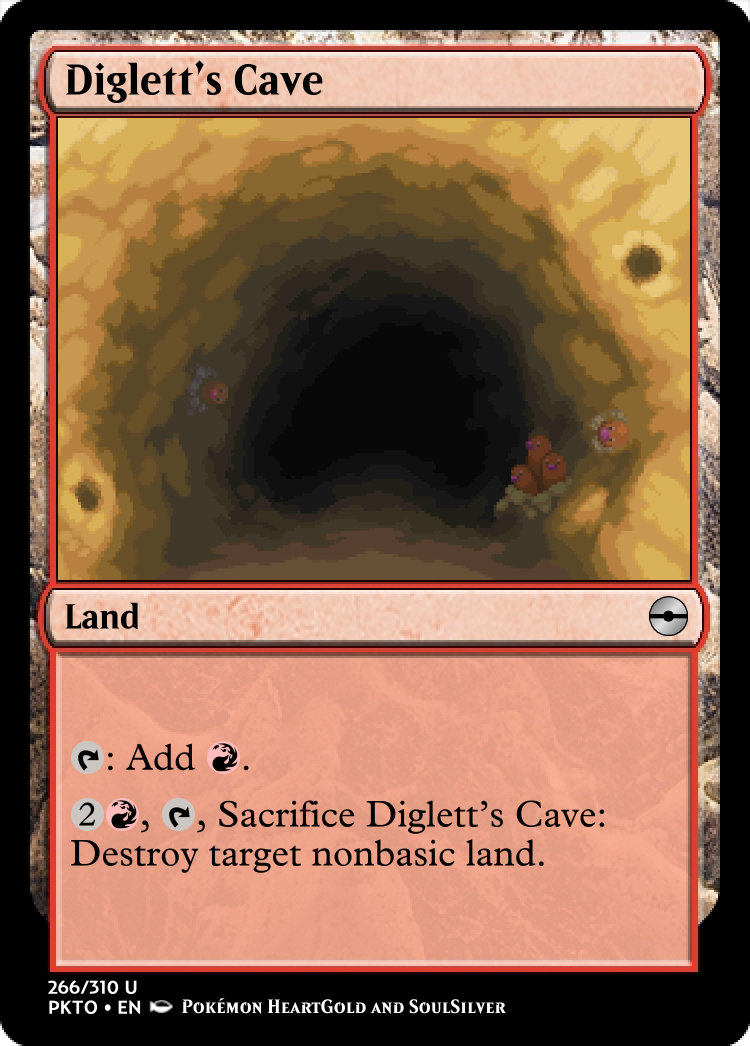
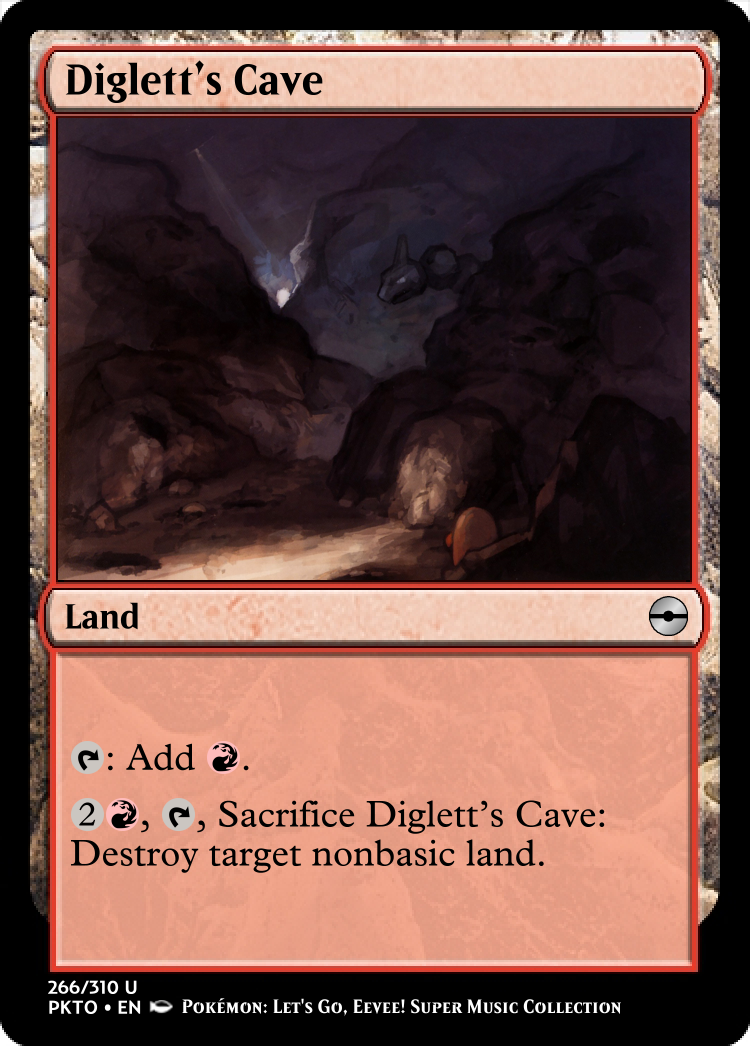
Hi res review tweaks (#125)
* Abra orange line

* Charmeleon wording

* Diglett's Cave art

* Old man yells at cloud

* Diglett's Cave art

* Helper cards

* Omanyte optical illusion

* Starmie cleanup

* DFC Helper numbering/set code

* Charmeleon wording xml

* Cardback sizing

* Manga swamp cleanup

* Nidoran helper symbols

diff --git a/README.md b/README.md
@@ -20,7 +20,7 @@ Fossil is a replacement for the escape mechanic. Fossil behaves like escape in a
 
 Evolve - An activated ability that turns the card over, just like transform. Double-faced Pokémon cards have the same abilities on both sides (minus the evolve ability), only their power, toughness, and name are different.
 
-Evolve From - An alternate casting cost very similar to mutate from Ikoria, but it targets a specific Pokémon. They evolve into the Pokémon on top plus all abilities from under it.
+Evolve From - An alternate casting cost very similar to mutate from Ikoria, but it targets a specific Pokémon. They evolve into the Pokémon on top plus all non-evolve abilities from under it.
 
 Both "Evolve" and "Evolve From" count as evolution/evolving. Any triggered abilities that care about Pokémon evolving will trigger from both types of evolution. If a card affects what you can pay "to evolve Pokémon" it applies to both types of evolution. 
 
